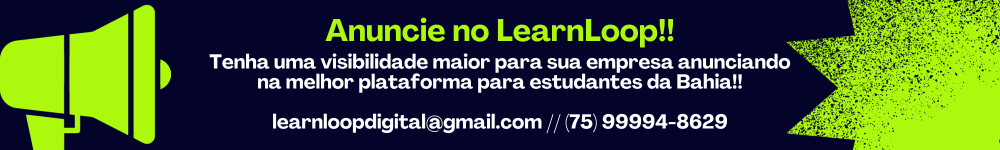
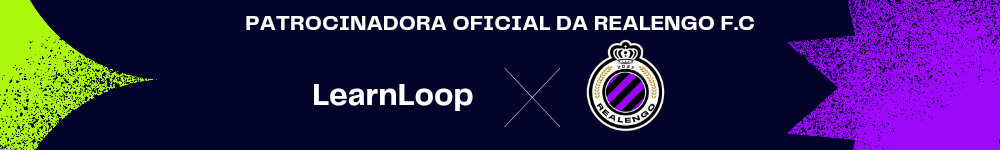
Patrocinadora nova

diff --git a/app/templates/post.html b/app/templates/post.html
@@ -19,7 +19,7 @@
   <h3>{{artigo.titulo}}</h3>
   <small>Criado por: {{autor.username}}</small>
 
-  <section>
+  <section onclick="window.location.href='https://www.instagram.com/realengof7'">
     <img src="{{url_for('static', filename='img/ads.png')}}">
   </section>
   <div id="conteudo">

diff --git a/app/templates/feed.html b/app/templates/feed.html
@@ -39,7 +39,7 @@
   </div>
 </div>
 <div class="container">
-<section>
+<section onclick="window.location.href='https://www.instagram.com/realengof7'">
   <img src="{{url_for('static', filename='img/ads.png')}}">
 </section>
 </div>

diff --git a/app/templates/index.html b/app/templates/index.html
@@ -32,7 +32,7 @@
 </div>
 
 <div class="container">
-<section>
+<section onclick="window.location.href='https://www.instagram.com/realengof7'">
   <img src="{{url_for('static', filename='img/ads.png')}}">
 </section>
 </div>
